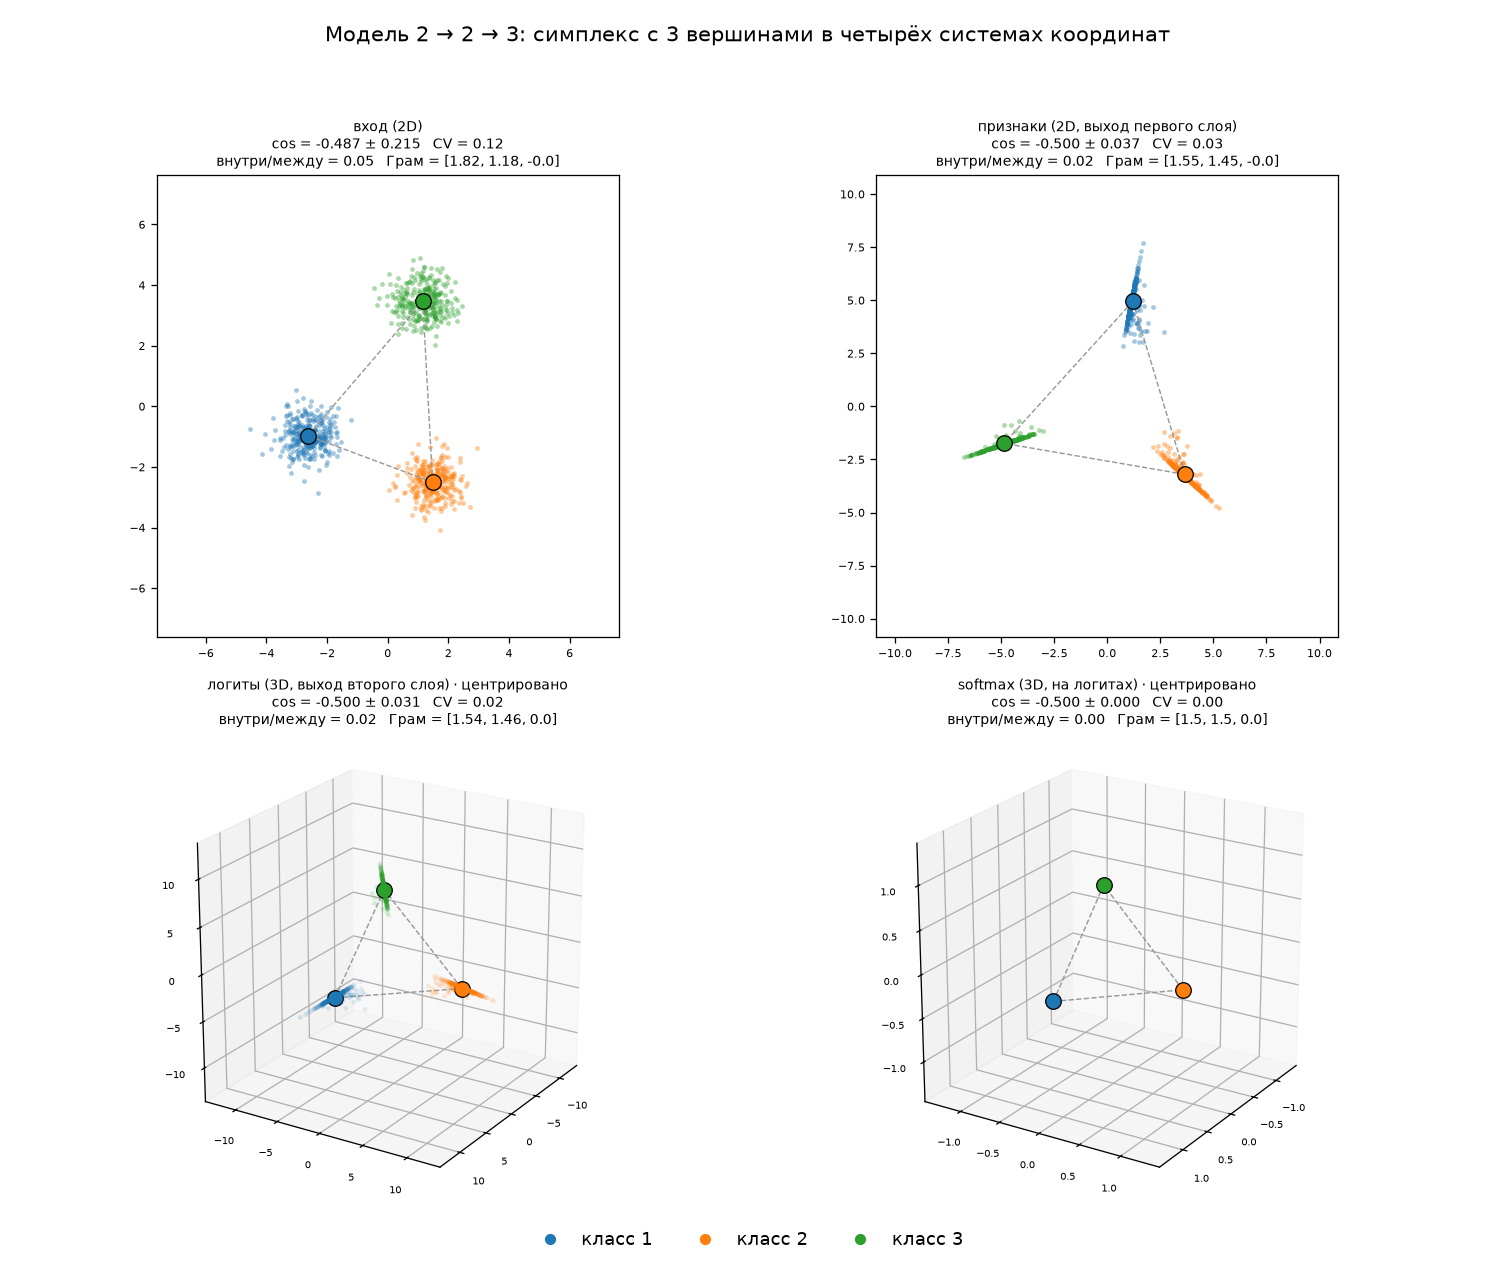
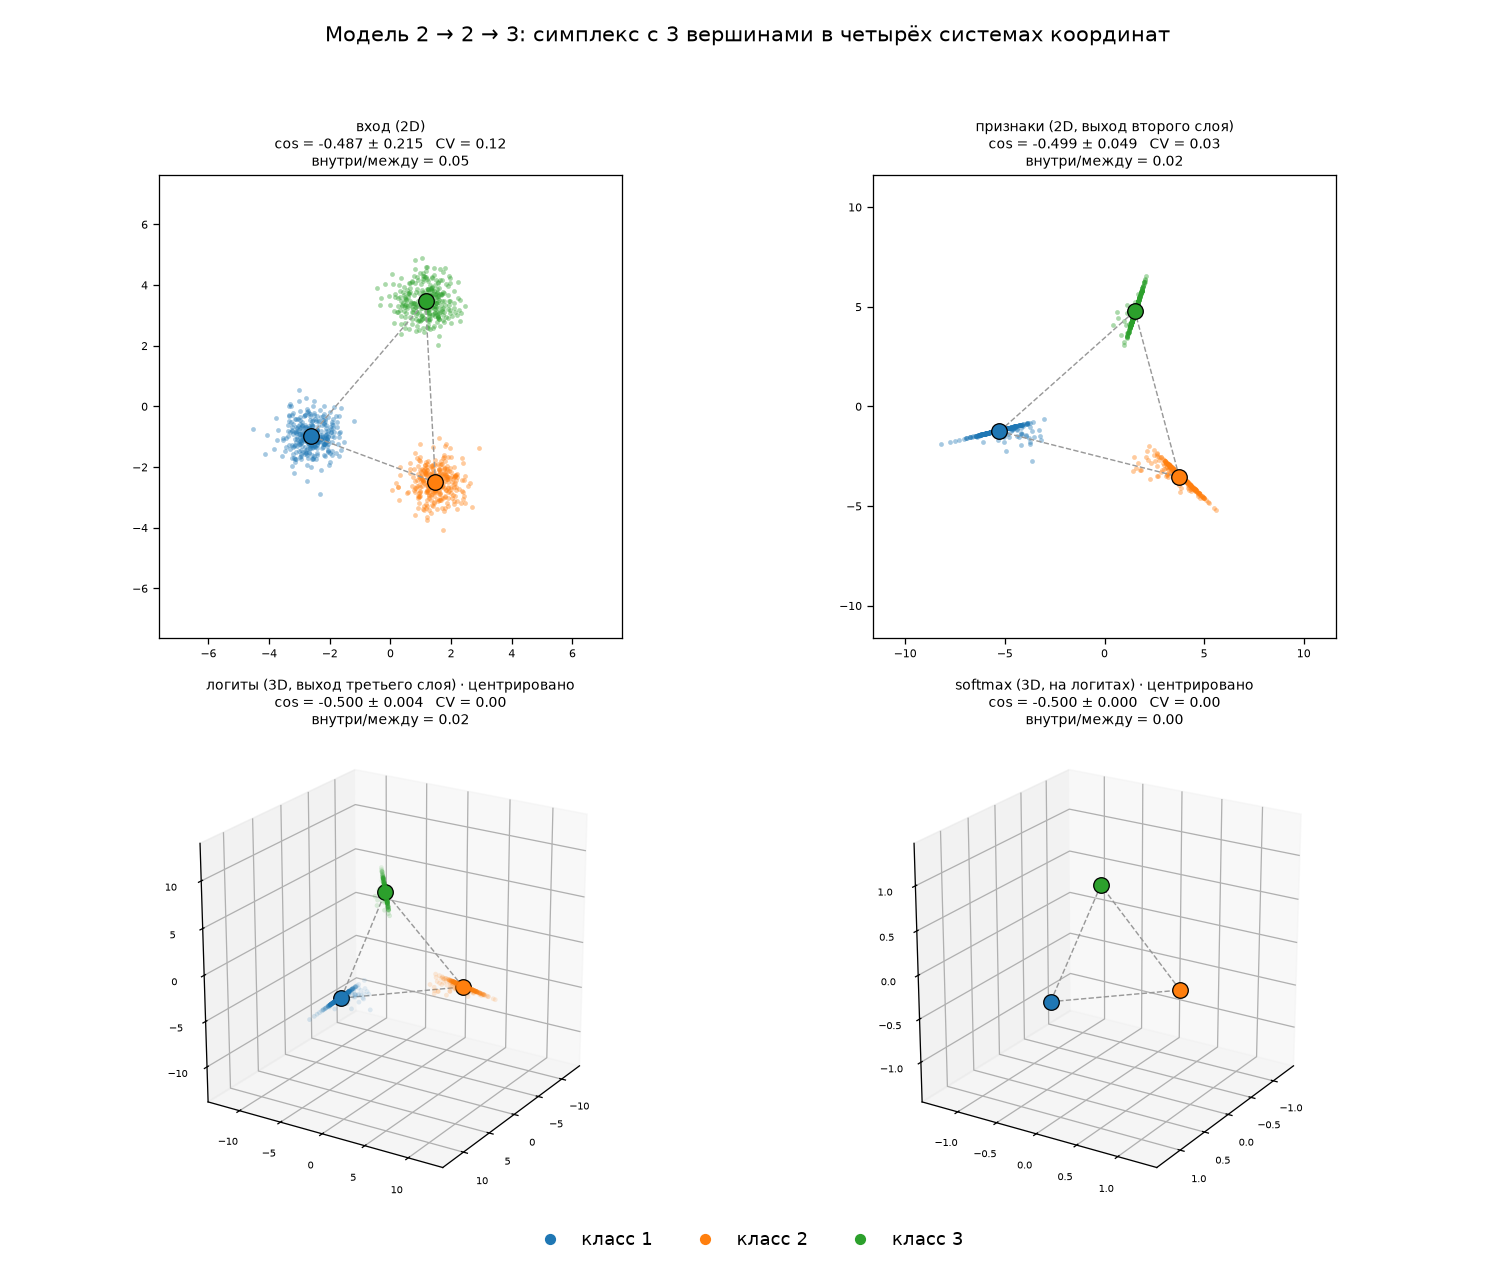
toy simplex spaces: 3-layer toy models (32-3-C, 32-2-3), collapse animation, NC stats without Gram; README notation fixes (H_u instead of W_u), terminal-phase wording, DAMP stub

diff --git a/experiments/toy_3to2_animation.py b/experiments/toy_3to2_animation.py
@@ -1,0 +1,168 @@
+"""Анимация схлопывания классов для игрушки 3 -> 2 (два класса, три признака).
+
+Модель: Linear(2 -> 32) + ReLU -> Linear(32 -> 3) -> Linear(3 -> 2).
+Вход: два нарочно несимметричных облака в 2D.
+
+Две панели на кадр:
+  1) признаки в 3D (ось x — вдоль отрезка между центрами),
+  2) логиты в 2D.
+Подпись одна — номер эпохи.
+Оба облака в каждой панели нормированы на расстояние между центрами, поэтому
+центры всегда стоят в +-0.5, а видно, как облака стягиваются к ним.
+
+Запуск: poetry run python toy_3to2_animation.py
+"""
+
+from __future__ import annotations
+
+from pathlib import Path
+
+import matplotlib
+
+matplotlib.use("Agg")
+import matplotlib.pyplot as plt
+import numpy as np
+import torch
+from matplotlib.lines import Line2D
+from PIL import Image
+from torch import nn
+
+OUT = Path(__file__).resolve().parent.parent / "summary"
+OUT.mkdir(exist_ok=True)
+
+EPOCHS, N_PER_CLASS, WD, LR, WIDE = 4000, 300, 1e-3, 3e-3, 32
+CENTRES = np.array([[-2.9, 0.4], [2.5, -0.6]])
+COLORS = ["#1f77b4", "#ff7f0e"]
+# до 40-й эпохи — по одному кадру на эпоху, дальше реже
+SNAP_AT = list(range(41)) + [45, 50, 55, 60, 70, 80, 100, 120, 150, 200,
+                             300, 400, 600, 800, 1200, 2000, 3000, 4000]
+
+
+def make_data() -> tuple[torch.Tensor, np.ndarray]:
+    rng = np.random.default_rng(0)
+    x = np.vstack([CENTRES[c] + rng.normal(scale=0.5, size=(N_PER_CLASS, 2)) for c in range(2)])
+    y = np.concatenate([np.full(N_PER_CLASS, c) for c in range(2)])
+    return torch.tensor(x, dtype=torch.float32), y
+
+
+class Toy(nn.Module):
+    def __init__(self) -> None:
+        super().__init__()
+        self.l1 = nn.Linear(2, WIDE)
+        self.l2 = nn.Linear(WIDE, 3)
+        self.l3 = nn.Linear(3, 2)
+
+    def features(self, x):
+        return self.l2(torch.relu(self.l1(x)))
+
+    def forward(self, x):
+        return self.l3(self.features(x))
+
+
+def collapse(z: np.ndarray, y: np.ndarray) -> tuple[np.ndarray, float]:
+    """Центрирование и нормировка на расстояние между центрами + within/between."""
+    mus = np.stack([z[y == c].mean(0) for c in range(2)])
+    dist = np.linalg.norm(mus[0] - mus[1])
+    within = np.mean([np.sum((z[y == c] - mus[c]) ** 2) / (y == c).sum() for c in range(2)])
+    tot = np.mean(np.sum((z - z.mean(0)) ** 2, axis=1))
+    return (z - mus.mean(0)) / dist, float(within / max(tot - within, 1e-12))
+
+
+def snapshot(model: Toy, x: torch.Tensor, y: np.ndarray, epoch: int) -> dict:
+    with torch.no_grad():
+        zf = model.features(x).numpy().astype(np.float64)
+        zl = model(x).numpy().astype(np.float64)
+    f_norm, f_ratio = collapse(zf, y)
+    l_norm, l_ratio = collapse(zl, y)
+    return {"epoch": epoch, "f": f_norm, "l": l_norm,
+            "f_ratio": f_ratio, "l_ratio": l_ratio, "y": y}
+
+
+def render(snaps: list[dict], out: Path) -> None:
+    frames: list[Image.Image] = []
+    # общий базис для 3D-панели: ось e1 — вдоль отрезка между центрами (из последнего кадра)
+    last = snaps[-1]
+    ml = np.stack([last["f"][last["y"] == c].mean(0) for c in range(2)])
+    e1 = ml[0] - ml[1]
+    e1 = e1 / np.linalg.norm(e1)
+    _, _, vt = np.linalg.svd(last["f"] - last["f"].mean(0), full_matrices=False)
+    e2 = vt[0] - (vt[0] @ e1) * e1
+    e2 = e2 / np.linalg.norm(e2)
+    basis = np.stack([e1, e2, np.cross(e1, e2)])
+
+    fig = plt.figure(figsize=(11.6, 6.0), dpi=100)
+    ax3 = fig.add_subplot(1, 2, 1, projection="3d")
+    ax2 = fig.add_subplot(1, 2, 2)
+    class_handles = [Line2D([], [], marker="o", ls="", color=COLORS[c], label=f"класс {c + 1}")
+                     for c in range(2)]
+    suptitle = fig.suptitle("", fontsize=15)
+    # раскладка фиксируется один раз: иначе панели «съезжают» между кадрами
+    fig.tight_layout(rect=(0, 0.02, 1, 0.93))
+    pos3, pos2 = ax3.get_position(), ax2.get_position()
+
+    for i, s in enumerate(snaps):
+        ax3.clear()
+        ax2.clear()
+        yy = s["y"]
+
+        z3 = s["f"] @ basis.T
+        for c in range(2):
+            ax3.scatter(*z3[yy == c].T, s=7, color=COLORS[c], alpha=0.45, linewidths=0)
+        m3 = np.stack([z3[yy == c].mean(0) for c in range(2)])
+        ax3.plot(*np.c_[m3[0], m3[1]], color="0.5", lw=1.0, ls="--")
+        for c in range(2):
+            ax3.scatter(*m3[c], s=110, color=COLORS[c], edgecolor="black", linewidths=0.9, zorder=5)
+        ax3.set_xlim(-0.9, 0.9); ax3.set_ylim(-0.9, 0.9); ax3.set_zlim(-0.9, 0.9)
+        ax3.set_box_aspect((1, 1, 1))
+        ax3.view_init(elev=14, azim=-72)
+        ax3.tick_params(labelsize=6)
+        ax3.legend(handles=class_handles, loc="upper left", fontsize=8, frameon=False)
+
+        z2 = s["l"]
+        for c in range(2):
+            ax2.scatter(*z2[yy == c].T, s=7, color=COLORS[c], alpha=0.45, linewidths=0)
+        m2 = np.stack([z2[yy == c].mean(0) for c in range(2)])
+        ax2.plot(*np.c_[m2[0], m2[1]], color="0.5", lw=1.0, ls="--")
+        for c in range(2):
+            ax2.scatter(*m2[c], s=110, color=COLORS[c], edgecolor="black", linewidths=0.9, zorder=5)
+        ax2.set_xlim(-0.9, 0.9); ax2.set_ylim(-0.9, 0.9)
+        ax2.set_aspect("equal")
+        ax2.tick_params(labelsize=7)
+
+        suptitle.set_text(f"эпоха {s['epoch']}")
+        ax3.set_position(pos3)
+        ax2.set_position(pos2)
+        fig.canvas.draw()
+        buf = np.asarray(fig.canvas.buffer_rgba())[:, :, :3]
+        frames.append(Image.fromarray(buf).quantize(colors=96, method=Image.MEDIANCUT,
+                                                   dither=Image.NONE))
+    plt.close(fig)
+
+    durations = [130] * 41 + [220] * (len(frames) - 42) + [1500]
+    frames[0].save(out, save_all=True, append_images=frames[1:], duration=durations,
+                   loop=0, disposal=2, optimize=False)
+    print("saved", out, len(frames), "frames", frames[0].size)
+
+
+def main() -> None:
+    torch.manual_seed(0)
+    x, y = make_data()
+    model = Toy()
+    opt = torch.optim.Adam(model.parameters(), lr=LR, weight_decay=WD)
+    yt = torch.tensor(y)
+    snaps: list[dict] = []
+    for epoch in range(EPOCHS + 1):
+        if epoch in SNAP_AT:
+            snaps.append(snapshot(model, x, y, epoch))
+        if epoch == EPOCHS:
+            break
+        opt.zero_grad()
+        nn.functional.cross_entropy(model(x), yt).backward()
+        opt.step()
+    for s in snaps:
+        print(f"эпоха {s['epoch']:5d}  признаки {s['f_ratio']:7.3f}   логиты {s['l_ratio']:7.3f}")
+    render(snaps, OUT / "toy_3to2_collapse.gif")
+
+
+if __name__ == "__main__":
+    main()

diff --git a/experiments/toy_simplex_spaces.py b/experiments/toy_simplex_spaces.py
@@ -70,11 +70,10 @@ def nc_stats(z: np.ndarray, y: np.ndarray, C: int) -> dict:
     off = (n @ n.T)[~np.eye(C, dtype=bool)]
     within = sum(np.sum((z[y == c] - mus[c]) ** 2) for c in range(C))
     tot = np.sum((z - z.mean(0)) ** 2)
-    gram = np.linalg.eigvalsh(n @ n.T)[::-1]
     return {"cos": float(off.mean()), "std": float(off.std()),
             "cv": float(np.linalg.norm(mc, axis=1).std() / np.linalg.norm(mc, axis=1).mean()),
             "nc1": float(within / (tot - within)),
-            "gram": np.round(gram, 2).tolist(), "mus": mus}
+            "mus": mus}
 
 
 def place(z: np.ndarray, mus: np.ndarray):
@@ -124,8 +123,8 @@ def build(hidden: int, C: int) -> None:
         logits = model(x).numpy().astype(float)
     spaces = [
         ("вход (2D)", x.numpy().astype(float), ""),
-        (f"признаки ({hidden}D, выход первого слоя)", feats, ""),
-        (f"логиты ({C}D, выход второго слоя)", logits, " · центрировано"),
+        (f"признаки ({hidden}D, выход второго слоя)", feats, ""),
+        (f"логиты ({C}D, выход третьего слоя)", logits, " · центрировано"),
         (f"softmax ({C}D, на логитах)", torch.softmax(torch.tensor(logits), 1).numpy(),
          " · центрировано"),
     ]
@@ -138,9 +137,9 @@ def build(hidden: int, C: int) -> None:
         draw(ax, coords, m3, y, C, kind)
         extra = "" if frac == 1.0 else f"\n3 оси: {frac * 100:.0f}% дисперсии"
         ax.set_title(f"{name}{note}\ncos = {st['cos']:+.3f} ± {st['std']:.3f}   CV = {st['cv']:.2f}"
-                     f"\nвнутри/между = {st['nc1']:.2f}   Грам = {st['gram']}{extra}", fontsize=9)
+                     f"\nвнутри/между = {st['nc1']:.2f}", fontsize=9)
         print(f"{hidden}->{C} {name:44s} [{kind}] cos={st['cos']:+.3f}±{st['std']:.3f} "
-              f"CV={st['cv']:.3f} NC1={st['nc1']:.3f} gram={st['gram']}")
+              f"CV={st['cv']:.3f} NC1={st['nc1']:.3f}")
 
     handles = [plt.Line2D([], [], marker="o", ls="", color=COLORS[c], label=f"класс {c + 1}")
                for c in range(C)]
